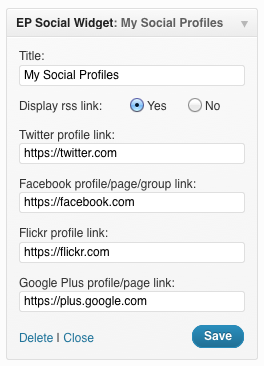
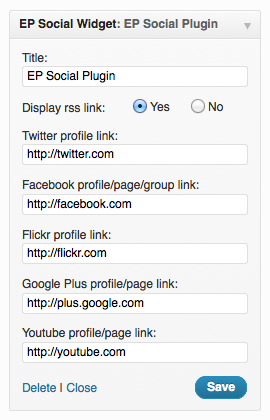
Updated with youtube and CSS changes
git-svn-id: https://plugins.svn.wordpress.org/ep-social-widget/trunk@497331 b8457f37-d9ea-0310-8a92-e5e31aec5664

diff --git a/style.css b/style.css
@@ -1,3 +1,18 @@
-.ep_social_widget img {
-padding: 0 10px 0 0;
+.ep_social_widget a {
+margin: 0;
+padding: 0;
+width: 25px;
+height: 24px;
+display: block;
+float: left;
+padding: 0 3px 0 0;
+}
+
+.ep_social_widget:after {
+content: ".";
+clear: both;
+visibility: hidden;
+height: 0;
+width: 0;
+display: block;
 }

diff --git a/ep_social_widget.php b/ep_social_widget.php
@@ -2,9 +2,9 @@
 /*
 Plugin Name: EP Social Widget
 Plugin URI: http://www.earthpeople.se
-Description: Very small and easy to use widget to display social icons on your site. Facebook, Twitter, Flickr, Google Plus and RSS feed
+Description: Very small and easy to use widget to display social icons on your site. Facebook, Twitter, Flickr, Google Plus, Youtube and RSS feed
 Author: Mattias Hedman, Earth People AB
-Version: 0.2.0
+Version: 0.3.0
 Author URI: http://www.earthpeople.se
 */
 
@@ -49,6 +49,7 @@ class epSocialWidget extends WP_Widget{
 		$flickr = $instance['flickr'];
 		$rss = $instance['rss'];
 		$gplus = $instance['gplus'];
+		$youtube = $instance['youtube'];
 		
 		echo $before_widget;
 		?>
@@ -75,6 +76,10 @@ class epSocialWidget extends WP_Widget{
 			
 			<?php if($gplus) : ?>
 			<a href="<?php echo $gplus; ?>" target="_blank"><img src="<?php echo plugins_url('icon-gplus.gif', __FILE__); ?>" alt="" /></a>
+			<?php endif; ?>
+			
+			<?php if($youtube) : ?>
+			<a href="<?php echo $youtube; ?>" target="_blank"><img src="<?php echo plugins_url('icon-youtube.gif', __FILE__); ?>" alt="" /></a>
 			<?php endif; ?>
 		</div>
 		
@@ -134,12 +139,23 @@ class epSocialWidget extends WP_Widget{
 			$instance['gplus'] = '';
 		}
 		
+		if(!empty($new_instance['youtube'])) {
+			$yt = strip_tags($new_instance['youtube']);		
+			if(preg_match($pattern1, $yt) || preg_match($pattern2, $yt)){
+				$instance['youtube'] = $yt;
+			} else {
+				$instance['youtube'] = 'http://'.$yt;
+			}		
+		} else {
+			$instance['youtube'] = '';
+		}
+		
 		return $instance;
 	}
 
 	// Widget backend
 	function form($instance) {
-		$default = array('title' =>'', 'twitter'=>'','facebook'=>'','flickr'=>'','rss'=>'', 'gplus' =>'');
+		$default = array('title' =>'', 'twitter'=>'','facebook'=>'','flickr'=>'','rss'=>'', 'gplus'=>'', 'youtube'=>'');
 		$instance = wp_parse_args((array)$instance,$default);
 	?>
 		<!-- TITLE -->
@@ -184,6 +200,13 @@ class epSocialWidget extends WP_Widget{
 			<label for="<?php echo $this->get_field_id('gplus'); ?>"><?php echo __('Google Plus profile/page link:'); ?></label>
 			<br />
 			<input type="text" id="<?php echo $this->get_field_id('gplus'); ?>" name="<?php echo $this->get_field_name('gplus'); ?>" value="<?php echo $instance['gplus']; ?>" class="widefat" />
+		</p>
+		
+		<!-- Youtube -->
+		<p>
+			<label for="<?php echo $this->get_field_id('youtube'); ?>"><?php echo __('Youtube profile/page link:'); ?></label>
+			<br />
+			<input type="text" id="<?php echo $this->get_field_id('youtube'); ?>" name="<?php echo $this->get_field_name('youtube'); ?>" value="<?php echo $instance['youtube']; ?>" class="widefat" />
 		</p>
 	
 	<?php
